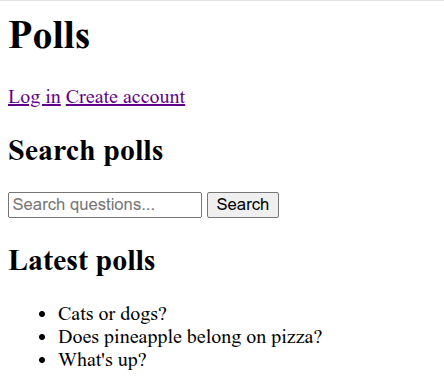
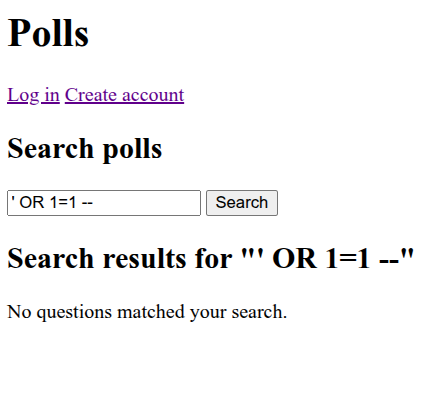
Last fixes

diff --git a/mysite/settings.py b/mysite/settings.py
@@ -19,9 +19,12 @@ BASE_DIR = Path(__file__).resolve().parent.parent
 # Quick-start development settings - unsuitable for production
 # See https://docs.djangoproject.com/en/6.0/howto/deployment/checklist/
 
-# SECURITY WARNING: keep the secret key used in production secret!
-SECRET_KEY = "django-insecure-vw(r=zhd+owya13=tk8@!v63pna+vyntyp090vid(fm*#ond_9"
+import os
 
+SECRET_KEY = os.environ.get(
+    "DJANGO_SECRET_KEY",
+    "development-only-key"
+)
 
 #vulnerable version:
 DEBUG = True
